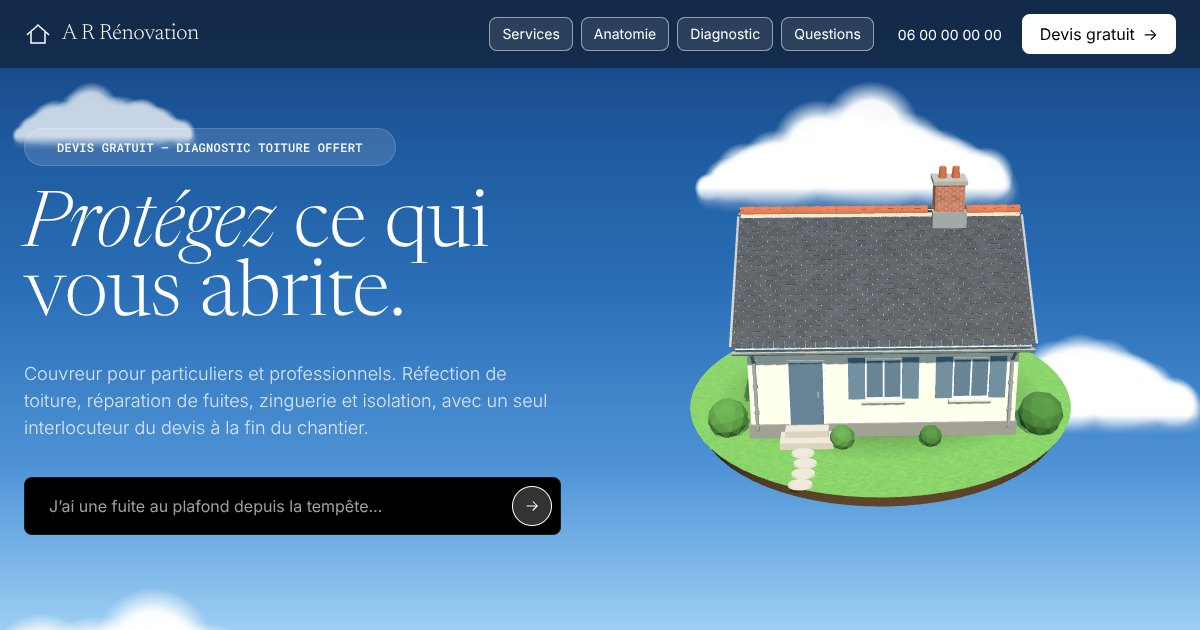
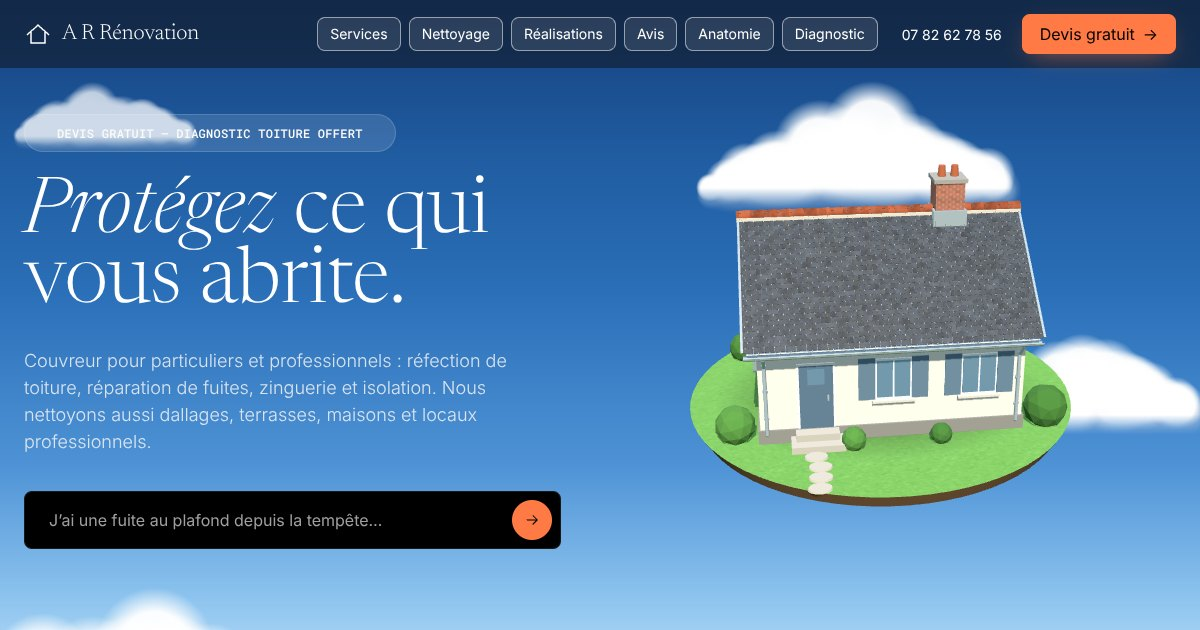
Numéro de téléphone et adresse e-mail de l'entreprise
- 07 82 62 78 56 (tel:+33782627856) partout : navigation, accueil,
  diagnostic, contact, encadré urgence, pied de page, barre mobile,
  données structurées et mentions légales
- E-mail adolpherudy0@gmail.com : contact, formulaire de devis,
  données structurées et mentions légales
- Image d'aperçu des partages régénérée (nouveau numéro, bouton orange,
  texte à jour)
- Liste de contrôle du README et commentaires À REMPLACER mis à jour

Claude-Session: https://claude.ai/code/session_016niK2pnmZovXwUTFVc9rJf

diff --git a/index.html b/index.html
@@ -18,15 +18,15 @@
   <meta property="og:image" content="og-image.jpg">
   <meta name="twitter:card" content="summary_large_image">
 
-  <!-- Fiche entreprise pour les moteurs de recherche — À REMPLACER : téléphone, e-mail, zone, adresse du site -->
+  <!-- Fiche entreprise pour les moteurs de recherche — À REMPLACER : zone d'intervention, adresse du site -->
   <script type="application/ld+json">
   {
     "@context": "https://schema.org",
     "@type": "RoofingContractor",
     "name": "A R Rénovation",
     "description": "Couvreur : réfection de toiture, réparation de fuites, zinguerie, charpente, isolation et démoussage. Nettoyage de dallages, terrasses, maisons et locaux professionnels. Diagnostic et devis gratuits.",
-    "telephone": "+33600000000",
-    "email": "contact@ar-renovation.fr",
+    "telephone": "+33782627856",
+    "email": "adolpherudy0@gmail.com",
     "areaServed": "Votre ville et ses environs",
     "image": "og-image.jpg",
     "makesOffer": [
@@ -67,8 +67,7 @@
       <a class="btn-glass" href="#diagnostic">Diagnostic</a>
     </nav>
     <div class="nav__end">
-      <!-- À REMPLACER : vrai numéro (il apparaît plusieurs fois dans la page) -->
-      <a class="nav__text" href="tel:+33600000000">06 00 00 00 00</a>
+      <a class="nav__text" href="tel:+33782627856">07 82 62 78 56</a>
       <a class="btn-primary nav__cta" href="#contact">Devis gratuit <span aria-hidden="true">→</span></a>
       <button class="nav__menu" type="button" aria-expanded="false" aria-controls="menu" aria-label="Ouvrir le menu">
         <span></span><span></span>
@@ -110,7 +109,7 @@
             <svg viewBox="0 0 24 24" aria-hidden="true"><path d="M5 12h14M13 6l6 6-6 6" fill="none" stroke="currentColor" stroke-width="1.5"/></svg>
           </button>
         </form>
-        <p class="hero__call fade"><i class="live-dot" aria-hidden="true"></i>Une urgence ? <a href="tel:+33600000000">Appelez le 06 00 00 00 00</a></p>
+        <p class="hero__call fade"><i class="live-dot" aria-hidden="true"></i>Une urgence ? <a href="tel:+33782627856">Appelez le 07 82 62 78 56</a></p>
       </div>
       <!-- Maison 3D : la couverture se pose rang par rang ; on peut changer de matériau -->
       <div class="hero__stage">
@@ -449,7 +448,7 @@
             <li class="is-empty"><span>Charpente</span><span class="bar"><i></i></span><span class="mono">À évaluer</span></li>
             <li class="is-empty"><span>Isolation</span><span class="bar"><i></i></span><span class="mono">À évaluer</span></li>
           </ul>
-          <a class="phone__call" id="diag-call" href="tel:+33600000000" hidden>Appeler maintenant</a>
+          <a class="phone__call" id="diag-call" href="tel:+33782627856" hidden>Appeler maintenant</a>
           <p class="phone__note">Avis indicatif, confirmé lors de la visite gratuite.</p>
         </div>
       </div>
@@ -511,19 +510,19 @@
         <span class="mono">Contact</span>
         <h2 class="display-sm"><em>Parlons</em> de votre projet.</h2>
         <p class="subhead">Laissez vos coordonnées, nous vous rappelons pour fixer une visite. Le diagnostic et le devis sont gratuits.</p>
-        <!-- À REMPLACER : vraies coordonnées -->
+        <!-- À REMPLACER : secteur d'intervention -->
         <dl class="coords">
-          <div><dt class="mono">Téléphone</dt><dd><a href="tel:+33600000000">06 00 00 00 00</a></dd></div>
-          <div><dt class="mono">E-mail</dt><dd><a href="mailto:contact@ar-renovation.fr">contact@ar-renovation.fr</a></dd></div>
+          <div><dt class="mono">Téléphone</dt><dd><a href="tel:+33782627856">07 82 62 78 56</a></dd></div>
+          <div><dt class="mono">E-mail</dt><dd><a href="mailto:adolpherudy0@gmail.com">adolpherudy0@gmail.com</a></dd></div>
           <div><dt class="mono">Secteur</dt><dd>Votre ville et ses environs</dd></div>
         </dl>
         <div class="urgent">
           <p class="mono">Urgence</p>
           <p>Fuite, tuiles envolées après une tempête ? Appelez directement : nous mettons votre toiture hors d’eau au plus vite.</p>
-          <a class="btn-ghost" href="tel:+33600000000">Appeler le 06 00 00 00 00</a>
+          <a class="btn-ghost" href="tel:+33782627856">Appeler le 07 82 62 78 56</a>
         </div>
       </div>
-      <form class="form" id="devis" data-email="contact@ar-renovation.fr">
+      <form class="form" id="devis" data-email="adolpherudy0@gmail.com">
         <div class="form__row">
           <label for="f-nom">Nom<input id="f-nom" name="nom" required autocomplete="name"></label>
           <label for="f-tel">Téléphone<input id="f-tel" name="telephone" type="tel" required autocomplete="tel"></label>
@@ -563,7 +562,7 @@
     </a>
     <p class="mono">Couverture · Zinguerie · Charpente · Isolation · Nettoyage</p>
     <nav class="footer__links" aria-label="Liens utiles">
-      <a href="tel:+33600000000">06 00 00 00 00</a>
+      <a href="tel:+33782627856">07 82 62 78 56</a>
       <a href="#contact">Devis gratuit</a>
       <a href="mentions-legales.html">Mentions légales</a>
     </nav>
@@ -573,7 +572,7 @@
 
 <!-- Barre d'action sur mobile : appeler ou demander un devis à tout moment -->
 <div class="actionbar" id="actionbar">
-  <a class="actionbar__call" href="tel:+33600000000">
+  <a class="actionbar__call" href="tel:+33782627856">
     <svg viewBox="0 0 24 24" aria-hidden="true"><path d="M6.6 3.5h2.6l1.4 4.3-2 1.5a12 12 0 0 0 6.1 6.1l1.5-2 4.3 1.4v2.6a2 2 0 0 1-2.2 2A16.5 16.5 0 0 1 4.6 5.7a2 2 0 0 1 2-2.2Z" fill="none" stroke="currentColor" stroke-width="1.5" stroke-linejoin="round"/></svg>
     Appeler
   </a>

diff --git a/mentions-legales.html b/mentions-legales.html
@@ -35,7 +35,7 @@
   <p>Siège : <span class="todo">adresse complète</span>.</p>
   <p>SIRET : <span class="todo">…</span> — Immatriculation : <span class="todo">Répertoire des métiers ou RCS de …</span>.</p>
   <p>TVA intracommunautaire : <span class="todo">FR…</span>.</p>
-  <p>Téléphone : <a href="tel:+33600000000">06 00 00 00 00</a> — E-mail : <a href="mailto:contact@ar-renovation.fr">contact@ar-renovation.fr</a></p>
+  <p>Téléphone : <a href="tel:+33782627856">07 82 62 78 56</a> — E-mail : <a href="mailto:adolpherudy0@gmail.com">adolpherudy0@gmail.com</a></p>
 
   <h2>Directeur de la publication</h2>
   <p><span class="todo">Prénom et nom du dirigeant</span>.</p>
@@ -49,7 +49,7 @@
   <h2 id="donnees">Données personnelles</h2>
   <p>Les informations envoyées depuis le formulaire de contact (nom, téléphone, e-mail, ville, description des travaux) servent uniquement à répondre à votre demande et à établir un devis. Elles ne sont ni vendues ni transmises à des tiers.</p>
   <p>Le formulaire ouvre votre messagerie : votre demande nous parvient par e-mail. Nous gardons ces échanges le temps de traiter votre demande, puis au plus trois ans après notre dernier contact si aucun chantier n’a suivi.</p>
-  <p>Vous pouvez accéder à vos données, les faire rectifier ou effacer, vous opposer à leur utilisation ou la limiter, en écrivant à <a href="mailto:contact@ar-renovation.fr">contact@ar-renovation.fr</a>. Vous pouvez aussi adresser une réclamation à la CNIL (<a href="https://www.cnil.fr">cnil.fr</a>).</p>
+  <p>Vous pouvez accéder à vos données, les faire rectifier ou effacer, vous opposer à leur utilisation ou la limiter, en écrivant à <a href="mailto:adolpherudy0@gmail.com">adolpherudy0@gmail.com</a>. Vous pouvez aussi adresser une réclamation à la CNIL (<a href="https://www.cnil.fr">cnil.fr</a>).</p>
 
   <h2>Cookies et services tiers</h2>
   <p>Ce site ne dépose aucun cookie de suivi ni de mesure d’audience. Les polices de caractères sont chargées depuis Google Fonts et la bibliothèque d’animation 3D depuis cdnjs (Cloudflare) : ces services reçoivent l’adresse IP de votre appareil pour vous envoyer les fichiers.</p>

diff --git a/README.md b/README.md
@@ -112,8 +112,6 @@ immobiles et la démonstration du démoussage ne se lance qu'avec son bouton.
 
 ## Avant la mise en ligne
 Cherchez `À REMPLACER`, `À VÉRIFIER` et `À COMPLÉTER` dans les fichiers HTML :
-- numéro de téléphone (`06 00 00 00 00` et `+33600000000`, présents à plusieurs endroits)
-- adresse e-mail (`contact@ar-renovation.fr`, aussi dans `data-email` du formulaire)
 - zone d'intervention (« Votre ville et ses environs », aussi dans les données structurées)
 - engagements affichés (garantie décennale, devis gratuit, chantier nettoyé) à vérifier
 - `mentions-legales.html` : forme juridique, SIRET, adresse, dirigeant, hébergeur, assureur décennal
